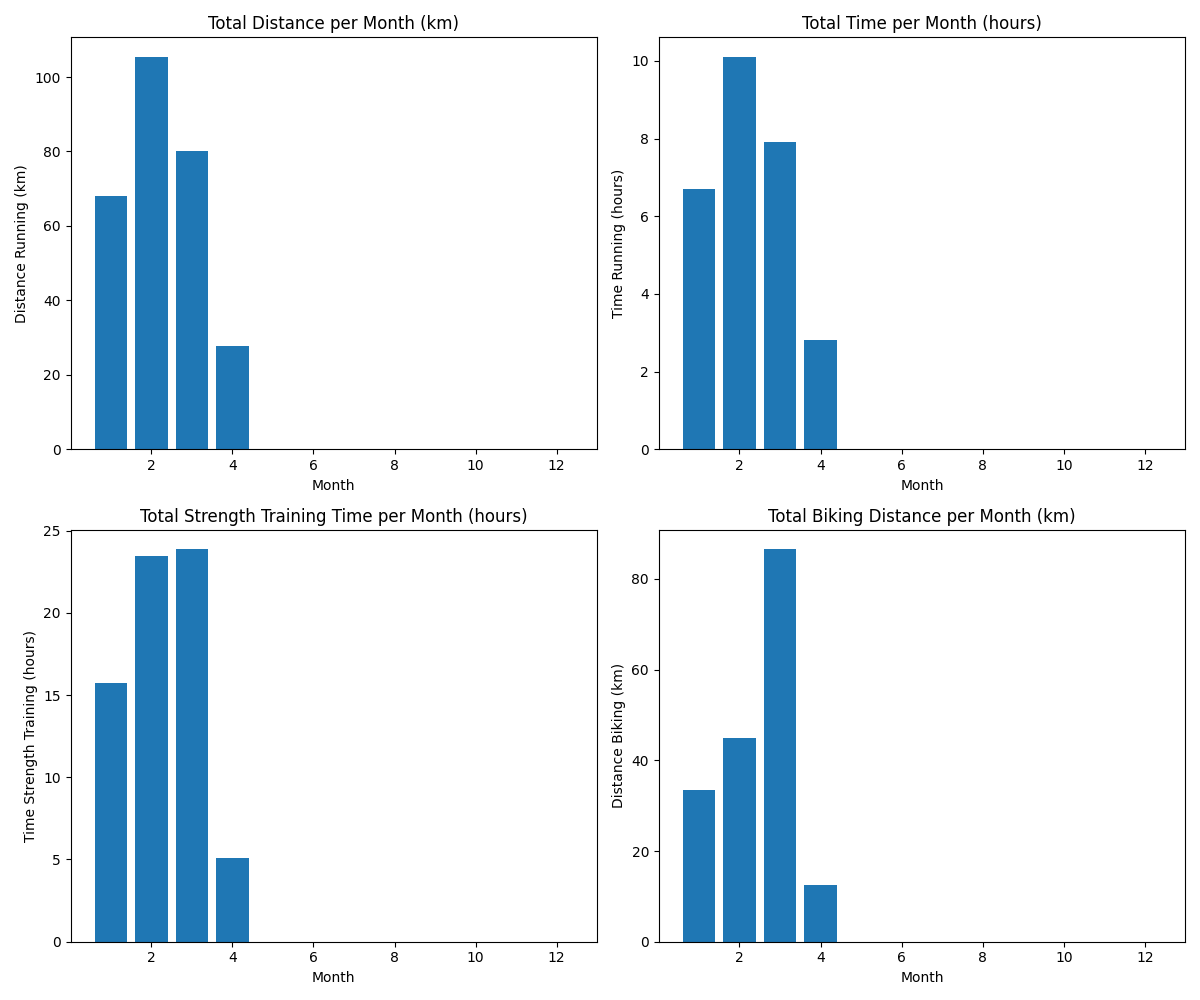
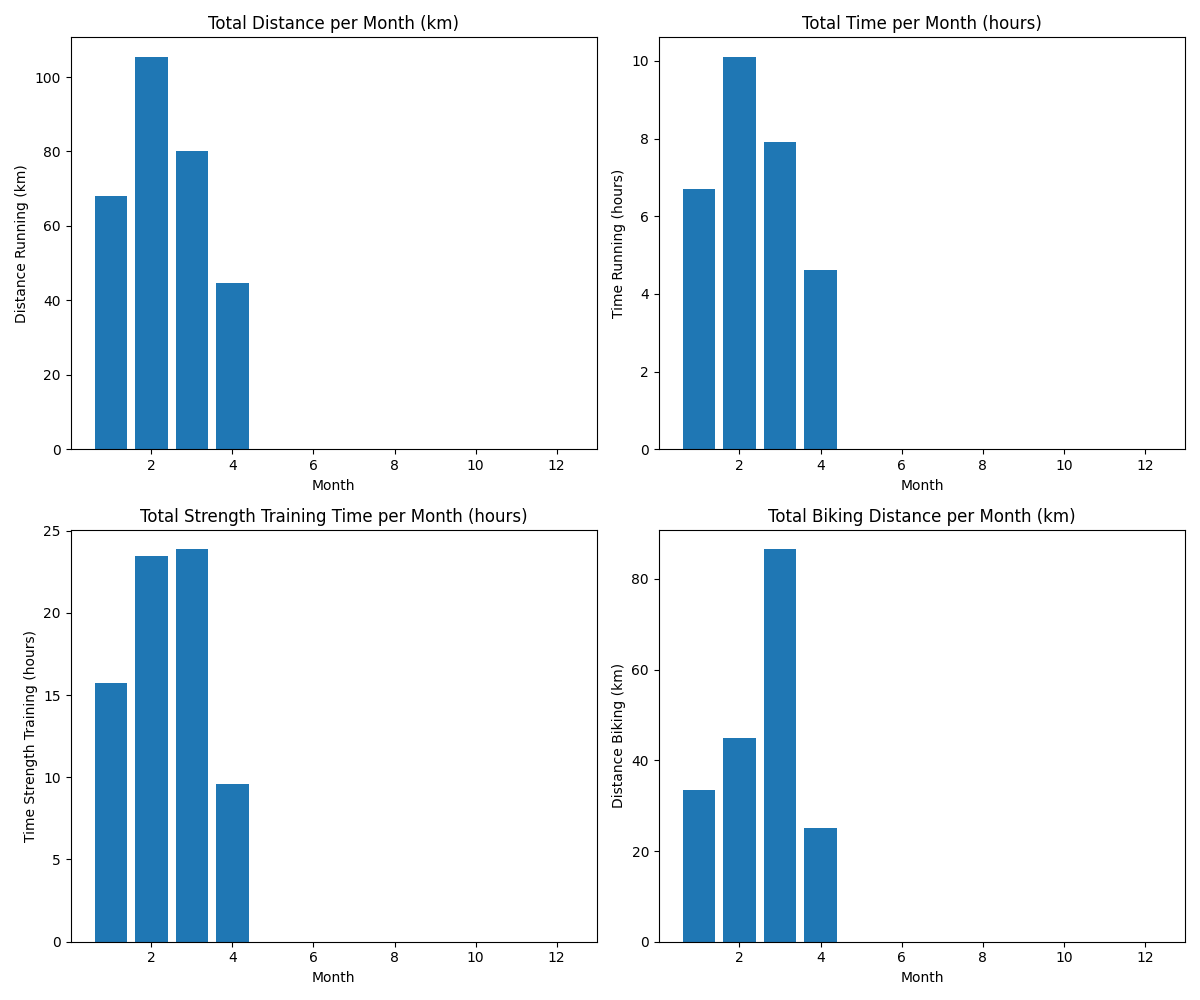
sport update 12.4

diff --git a/Sport/Sport_2026_report.md b/Sport/Sport_2026_report.md
@@ -3,20 +3,20 @@
 ## Sport Counts
 | type   |   count |
 |:-------|--------:|
-| F      |      78 |
+| F      |      83 |
 | K      |       5 |
 | L      |       1 |
-| Total  |      84 |
+| Total  |      89 |
 
 ## Summary
-- **Total distance run on treadmill:** 275.01 km
+- **Total distance run on treadmill:** 292.01 km
 - **Total distance run outside:** 6.14 km
-- **Total distance cycled:** 177.50 km
+- **Total distance cycled:** 190.00 km
 - **Total distance swimming:** 0.00 km
-- **Total time spent on strength training:** 68h 08min
+- **Total time spent on strength training:** 72h 40min
 
 ## Average Speeds
-- **Treadmill running:** 10.25 km/h
+- **Treadmill running:** 10.16 km/h
 - **Outside running:** 10.96 km/h
-- **Cycling:** 23.40 km/h
+- **Cycling:** 23.43 km/h
 - **Swimming:** nan km/h
